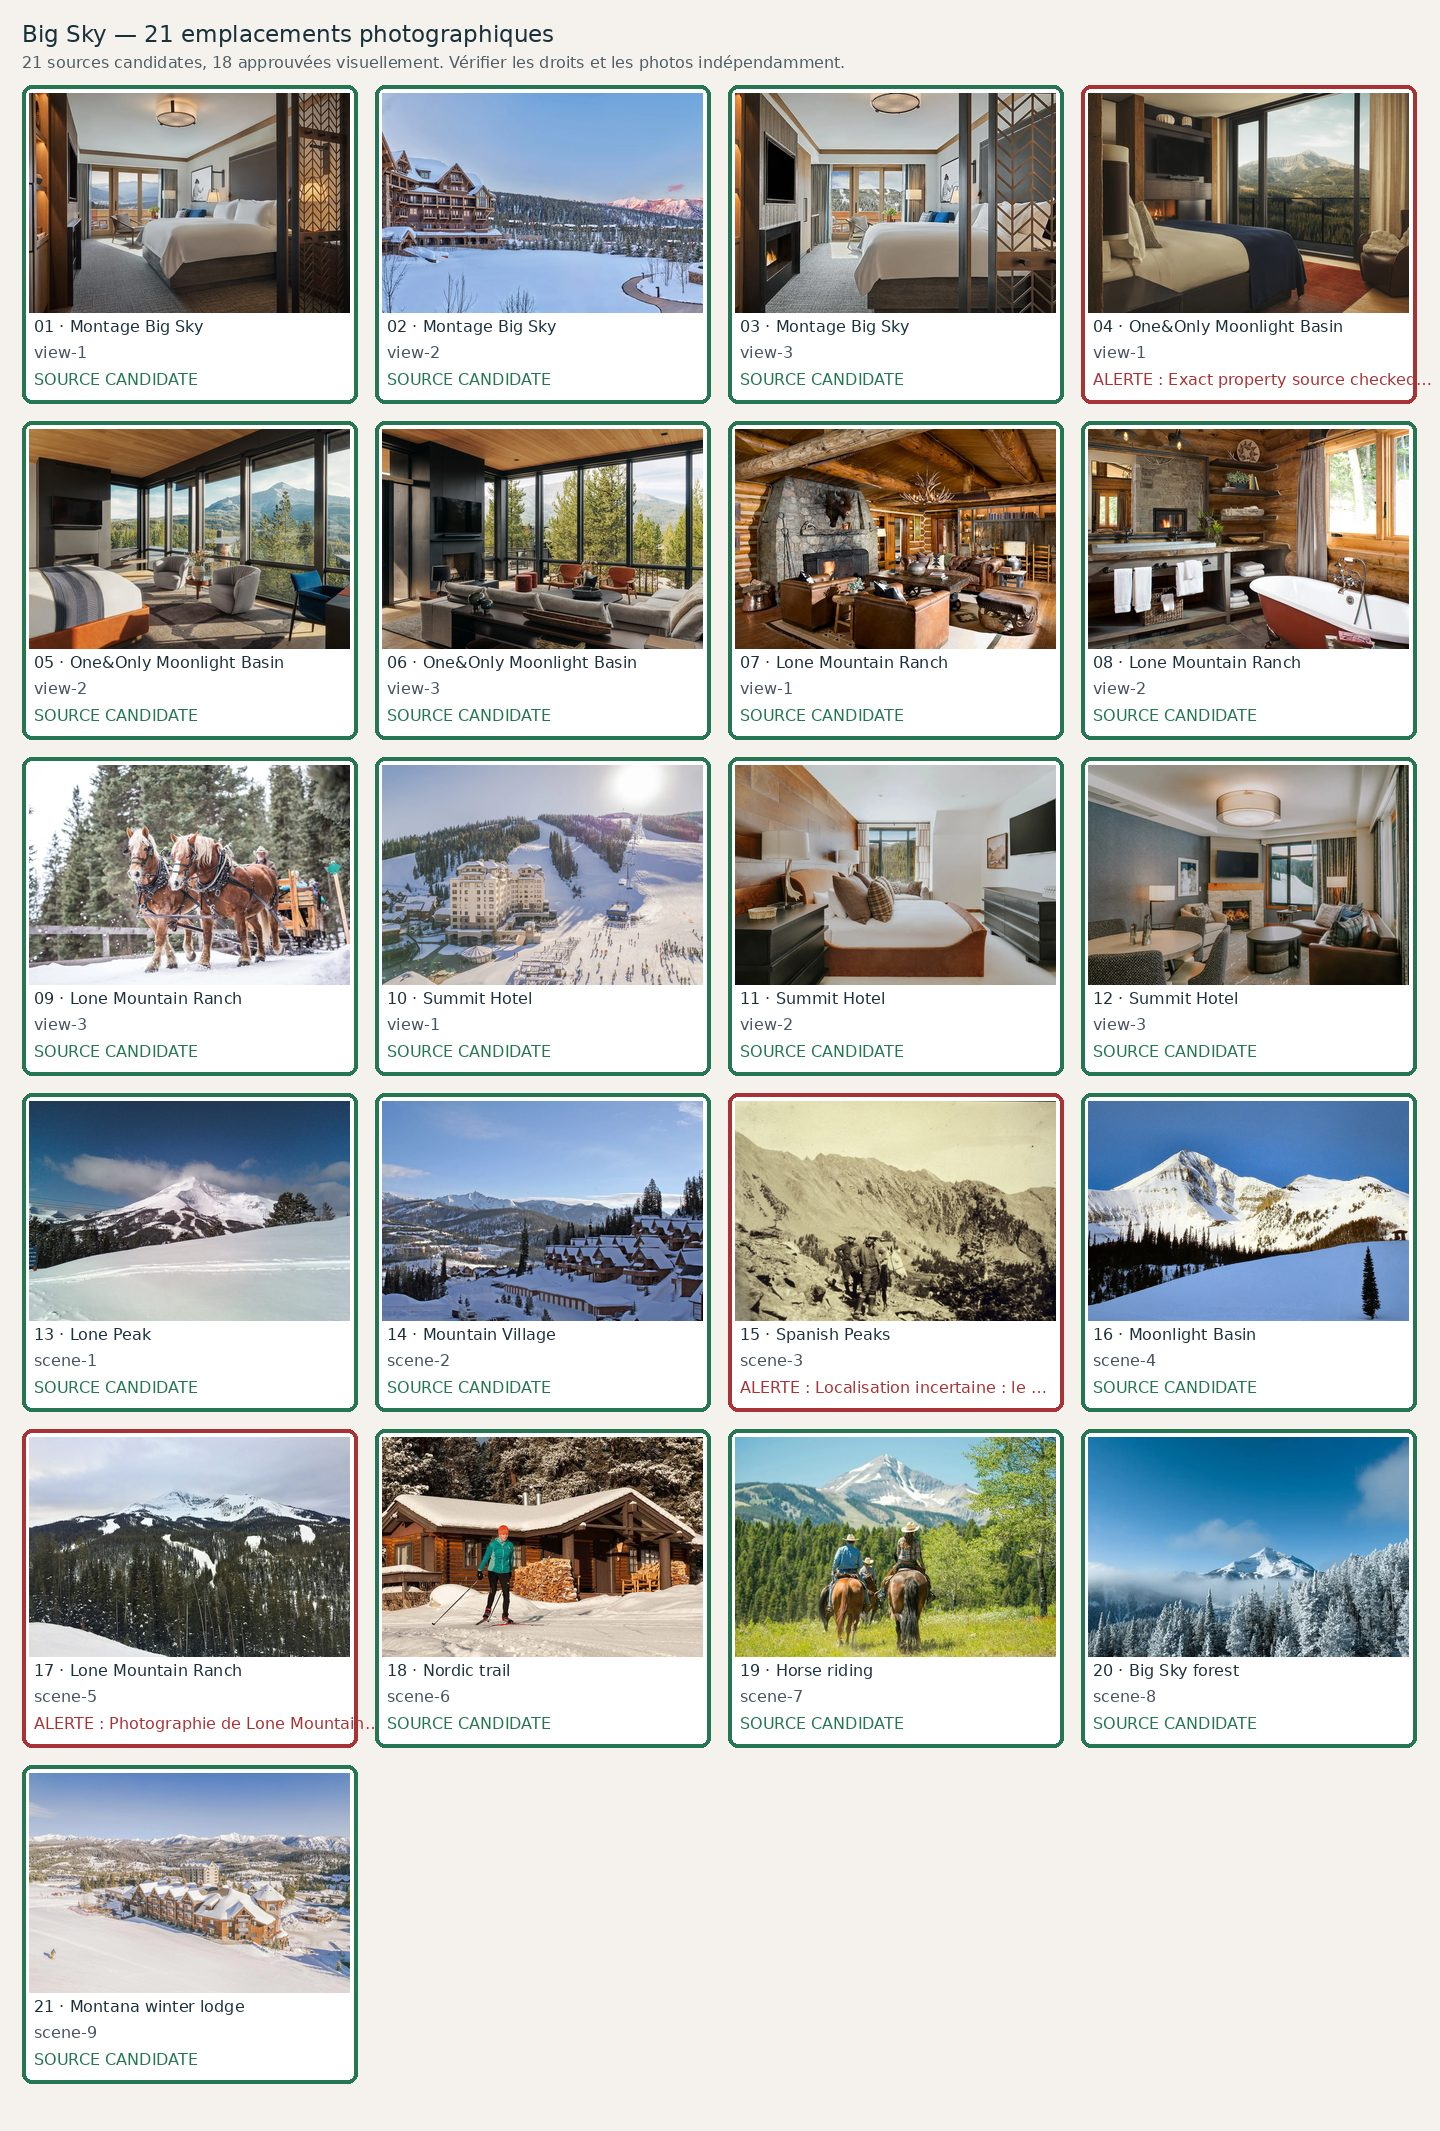
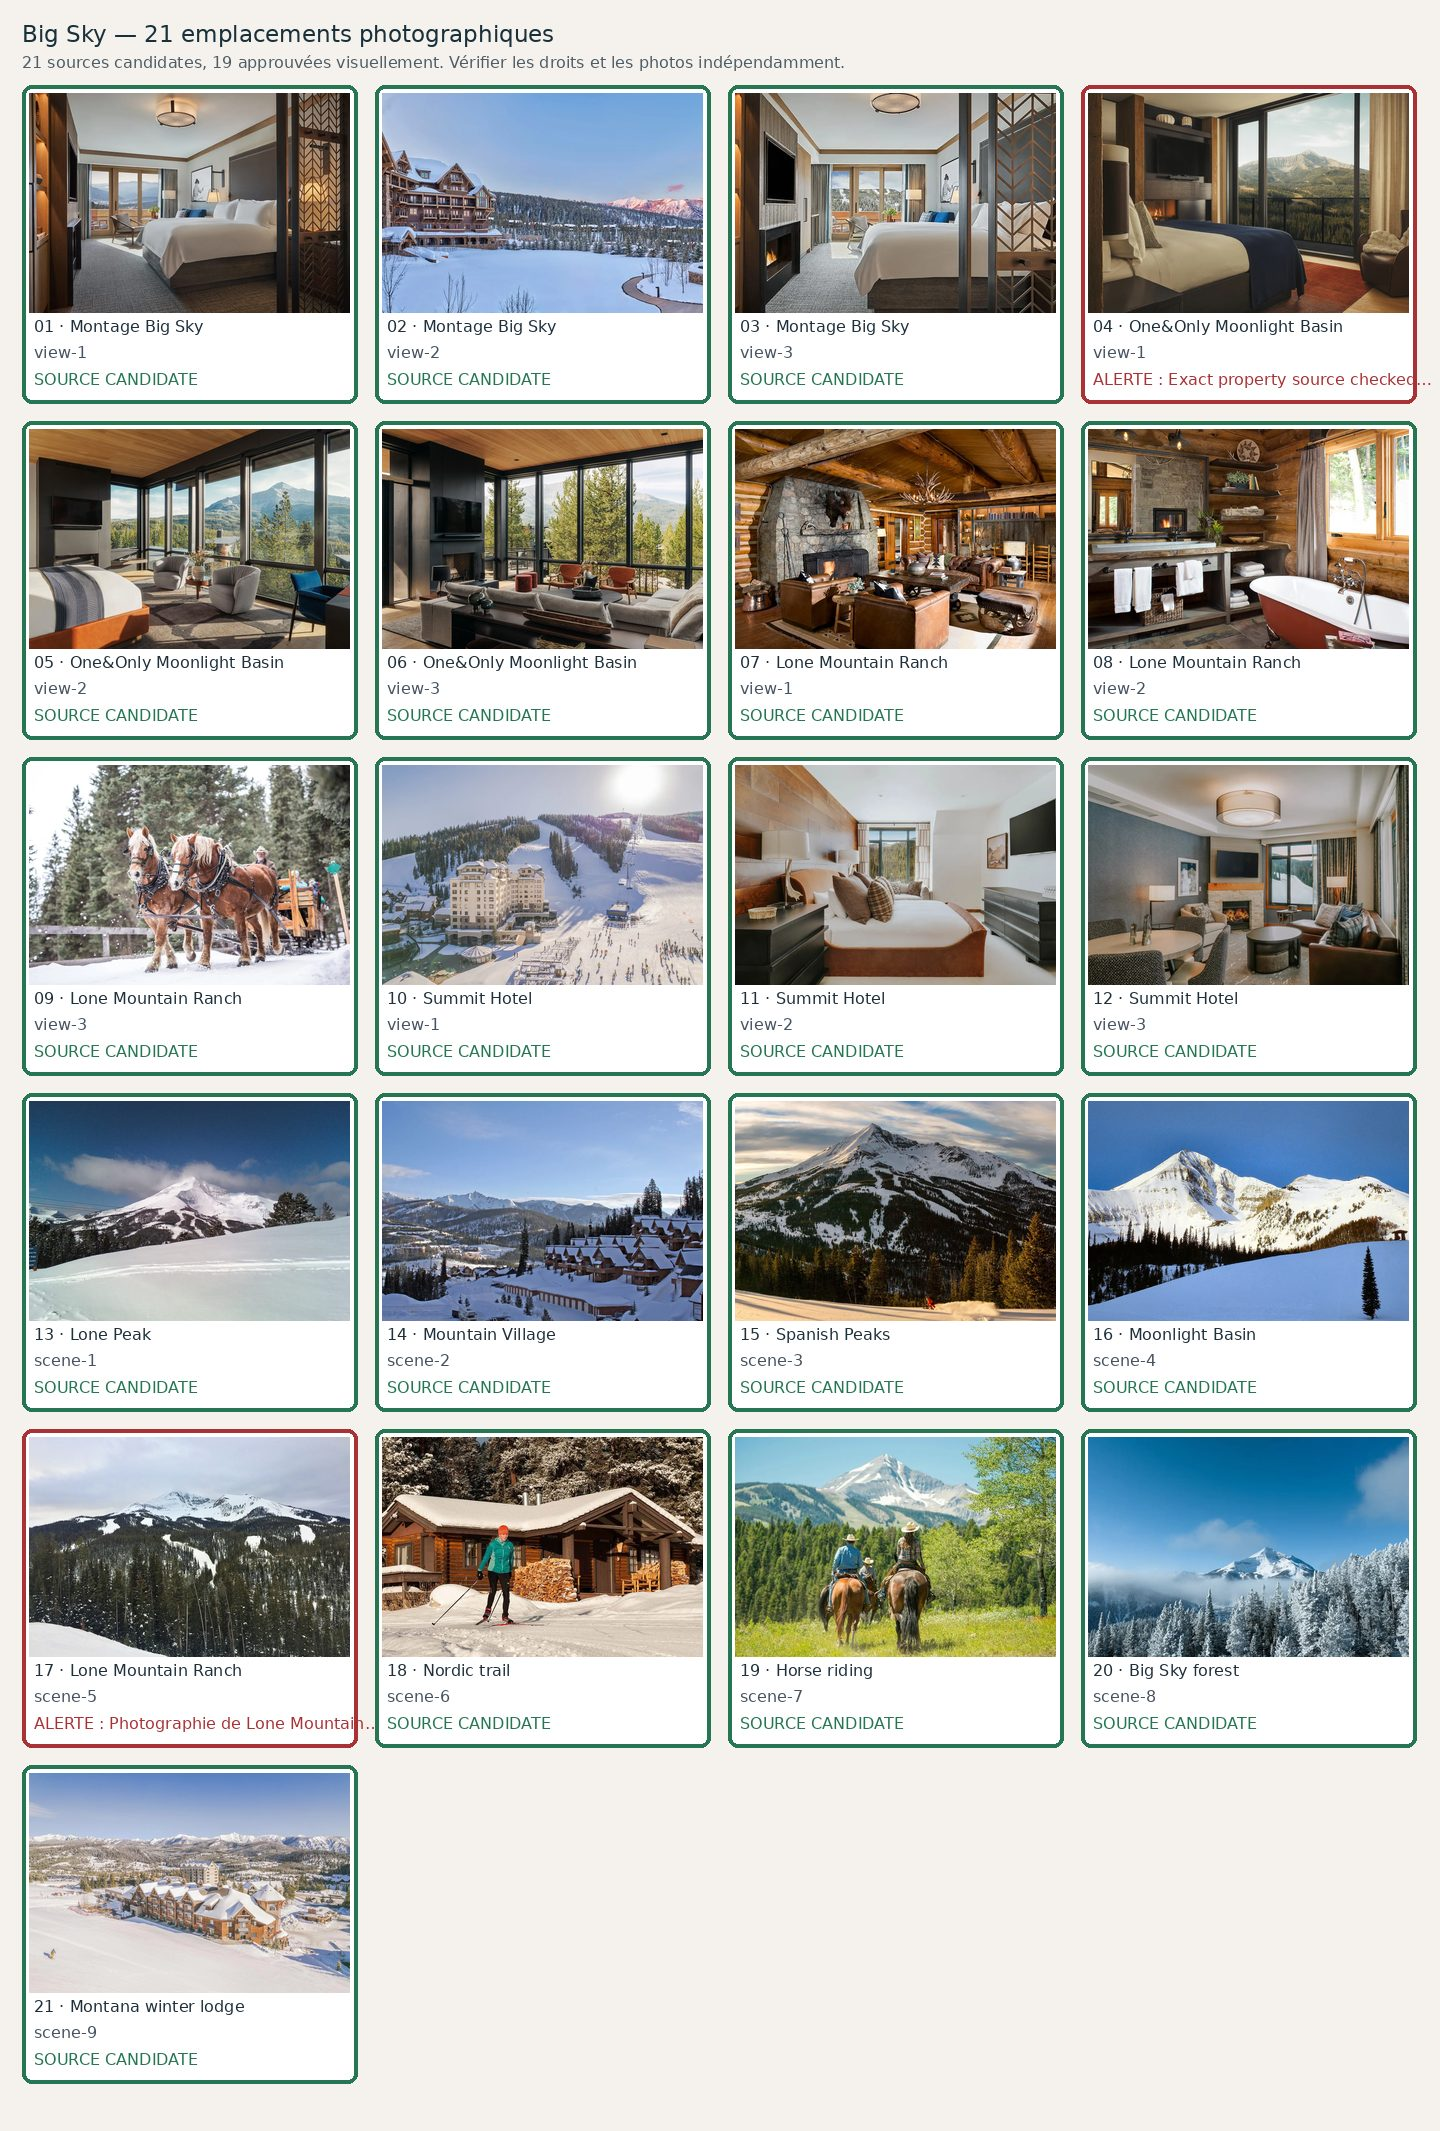
quality(travel): picture contact sheets for eight mountain destination QA [skip ci]

Changed region(s): [[0.5, 0.4955, 0.75, 0.6814]]

diff --git a/docs/travel-photo-contact-sheets/big-sky.md b/docs/travel-photo-contact-sheets/big-sky.md
@@ -1,6 +1,6 @@
 # Big Sky — 21 photographies à contrôler
 
-**Candidats récupérés : 21/21 · Validés visuellement : 18/21**. Aucune validation ne résulte du seul téléchargement.
+**Candidats récupérés : 21/21 · Validés visuellement : 19/21**. Aucune validation ne résulte du seul téléchargement.
 
 ![Planche de contrôle Big Sky](big-sky.jpg)
 
@@ -20,7 +20,7 @@
 | 12 | Summit Hotel — view-3 | [Source](https://www.bigskyresort.com/lodging/hotels/summit-hotel/rooms-and-suites/three-bedroom) · Summit 3-bedroom suite living area| Candidate |
 | 13 | Lone Peak — scene-1 | [Source](https://commons.wikimedia.org/wiki/File:Lone_Peak,_Big_Sky,_Montana.jpg) · File:Lone Peak, Big Sky, Montana.jpg| Candidate |
 | 14 | Mountain Village — scene-2 | [Source](https://commons.wikimedia.org/wiki/File:Big_Sky_resort.jpg) · File:Big Sky resort.jpg| Candidate |
-| 15 | Spanish Peaks — scene-3 | [Source](https://commons.wikimedia.org/wiki/File:Theb0802_-_Flickr_-_NOAA_Photo_Library.jpg) · File:Theb0802 - Flickr - NOAA Photo Library.jpg| Candidate; **Localisation incertaine : le fichier source NOAA ne documente pas clairement Spanish Peaks du Montana. Ne pas afficher sous cette légende.** |
+| 15 | Spanish Peaks — scene-3 | [Source](https://spanishpeaks.com/skiing/) · Spanish Peaks Mountain Club official resort skiing photograph| Candidate |
 | 16 | Moonlight Basin — scene-4 | [Source](https://commons.wikimedia.org/wiki/File:Feb_1,_2009_-_Lone_Peak_in_Big_Sky,_Montana.jpg) · File:Feb 1, 2009 - Lone Peak in Big Sky, Montana.jpg| Candidate |
 | 17 | Lone Mountain Ranch — scene-5 | [Source](https://commons.wikimedia.org/wiki/File:Lone_Mountain,_January_2018.jpg) · File:Lone Mountain, January 2018.jpg| Candidate; **Photographie de Lone Mountain, pas de Lone Mountain Ranch. Ne PAS la présenter comme montrant les cabanes ou les installations du ranch.** |
 | 18 | Nordic trail — scene-6 | [Source](https://www.visitmt.com/listing/lone-mountain-ranch-cross-country-ski-trails) · Nordic skiing at Lone Mountain Ranch, Montana| Candidate |

diff --git a/docs/travel-photo-contact-sheets/st-moritz.md b/docs/travel-photo-contact-sheets/st-moritz.md
@@ -1,6 +1,6 @@
 # St. Moritz — 21 photographies à contrôler
 
-**Candidats récupérés : 21/21 · Validés visuellement : 17/21**. Aucune validation ne résulte du seul téléchargement.
+**Candidats récupérés : 21/21 · Validés visuellement : 18/21**. Aucune validation ne résulte du seul téléchargement.
 
 ![Planche de contrôle St. Moritz](st-moritz.jpg)
 
@@ -20,7 +20,7 @@
 | 12 | Carlton Hotel St. Moritz — view-3 | [Source](https://tschuggencollection.ch/en/hotel/carlton-hotel) · Elegant restaurant table with white linens, wine glasses, and floral centerpiece beneath Asian-inspired artwork on textu| Candidate |
 | 13 | St. Moritz lake — scene-1 | [Source](https://commons.wikimedia.org/wiki/File:Blick_über_den_Sankt_Moritzersee_auf_Sankt_Moritz.jpg) · Blick über den Sankt Moritzersee auf Sankt Moritz.jpg| Candidate; **Contrôle visuel : panorama réel du lac en automne. Ne pas légender comme une vue d'hiver ni utiliser pour promettre les conditions de neige.** |
 | 14 | St. Moritz Dorf — scene-2 | [Source](https://commons.wikimedia.org/wiki/File:SMoritz_Dorf_from_lake.jpg) · File:SMoritz Dorf from lake.jpg| Candidate |
-| 15 | St. Moritz Bad — scene-3 | [Source](https://commons.wikimedia.org/wiki/File:St._Moritz_Forum_Paracelsus.JPG) · File:St. Moritz Forum Paracelsus.JPG| Candidate |
+| 15 | St. Moritz Bad — scene-3 | [Source](https://commons.wikimedia.org/wiki/File:St._Moritz_panorama_3.jpg) · St. Moritz panorama 3.jpg| Candidate |
 | 16 | Suvretta — scene-4 | [Source](https://commons.wikimedia.org/wiki/File:Pass_Suvretta.jpg) · File:Pass Suvretta.jpg| Candidate |
 | 17 | Corviglia — scene-5 | [Source](https://commons.wikimedia.org/wiki/File:St._Moritz_Corviglia_2.jpg) · St. Moritz Corviglia 2.jpg| Candidate |
 | 18 | Celerina — scene-6 | [Source](https://commons.wikimedia.org/wiki/File:Celerina_Engadin.jpg) · Celerina Engadin.jpg| Candidate |

diff --git a/docs/travel-photo-contact-sheets/README.md b/docs/travel-photo-contact-sheets/README.md
@@ -11,6 +11,6 @@ Les photographies récemment remplacées restent rouges tant qu'elles n'ont pas 
 - [Niseko](niseko.md) — 21/21 fichiers candidats, 1 alertes ; [ouvrir l'image seule](niseko.jpg)
 - [Megève](megeve.md) — 21/21 fichiers candidats, 3 alertes ; [ouvrir l'image seule](megeve.jpg)
 - [Jackson Hole](jackson-hole.md) — 21/21 fichiers candidats, 2 alertes ; [ouvrir l'image seule](jackson-hole.jpg)
-- [Big Sky](big-sky.md) — 21/21 fichiers candidats, 3 alertes ; [ouvrir l'image seule](big-sky.jpg)
+- [Big Sky](big-sky.md) — 21/21 fichiers candidats, 2 alertes ; [ouvrir l'image seule](big-sky.jpg)
 - [Val d'Isère](val-disere.md) — 21/21 fichiers candidats, 4 alertes ; [ouvrir l'image seule](val-disere.jpg)
 - [Verbier](verbier.md) — 21/21 fichiers candidats, 2 alertes ; [ouvrir l'image seule](verbier.jpg)
